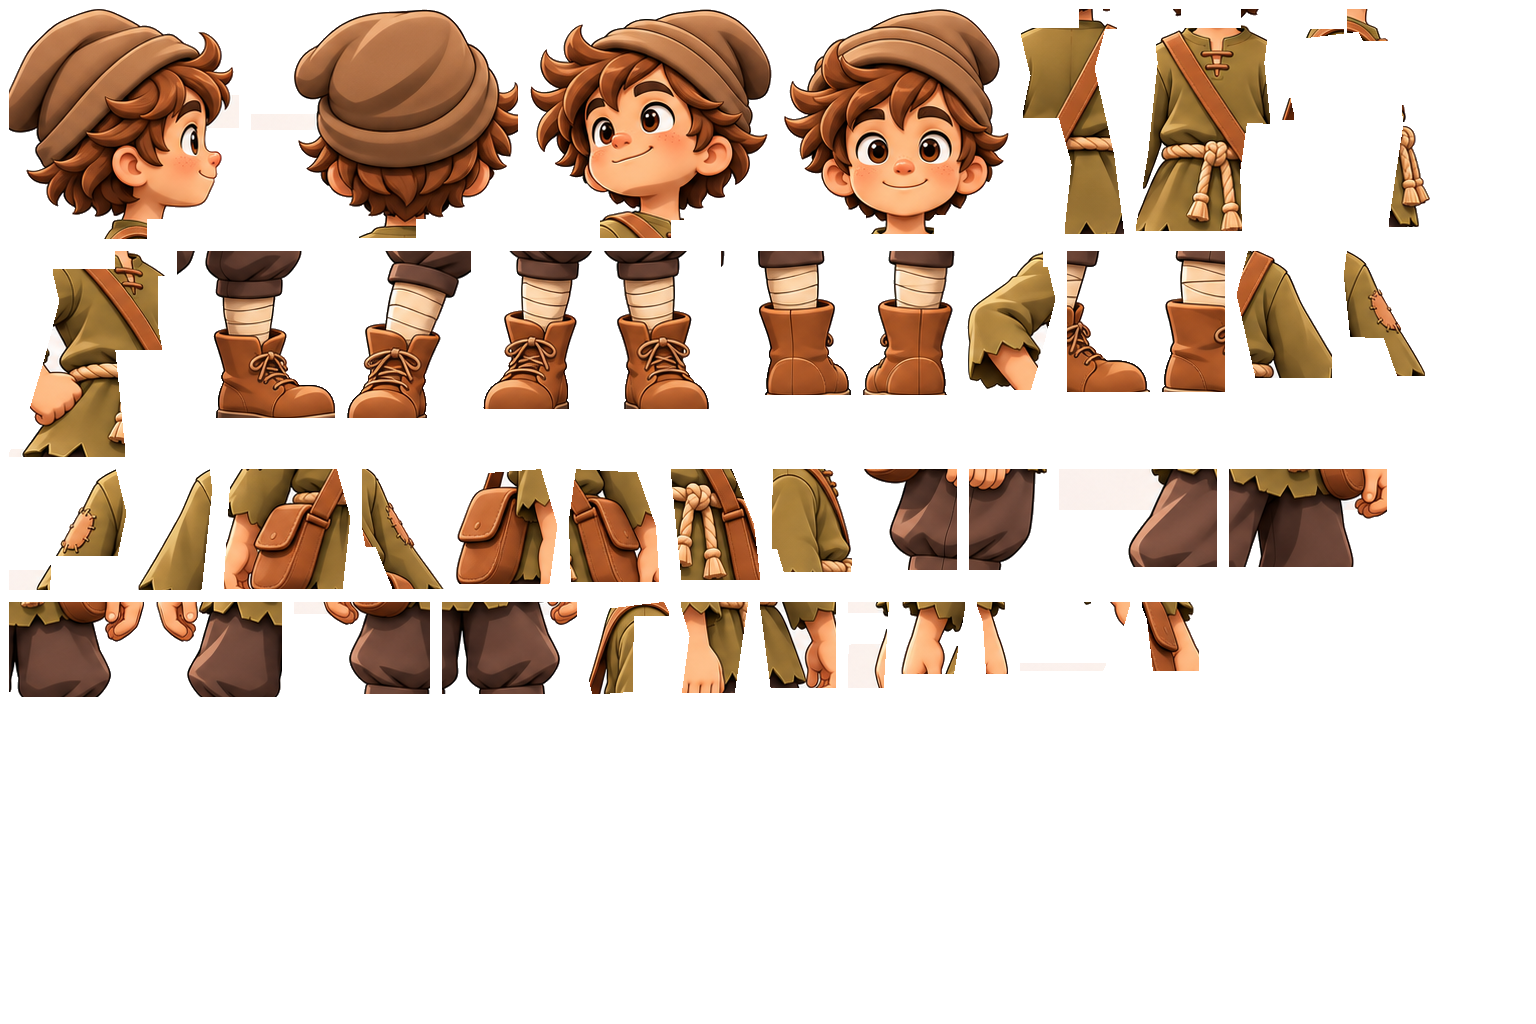
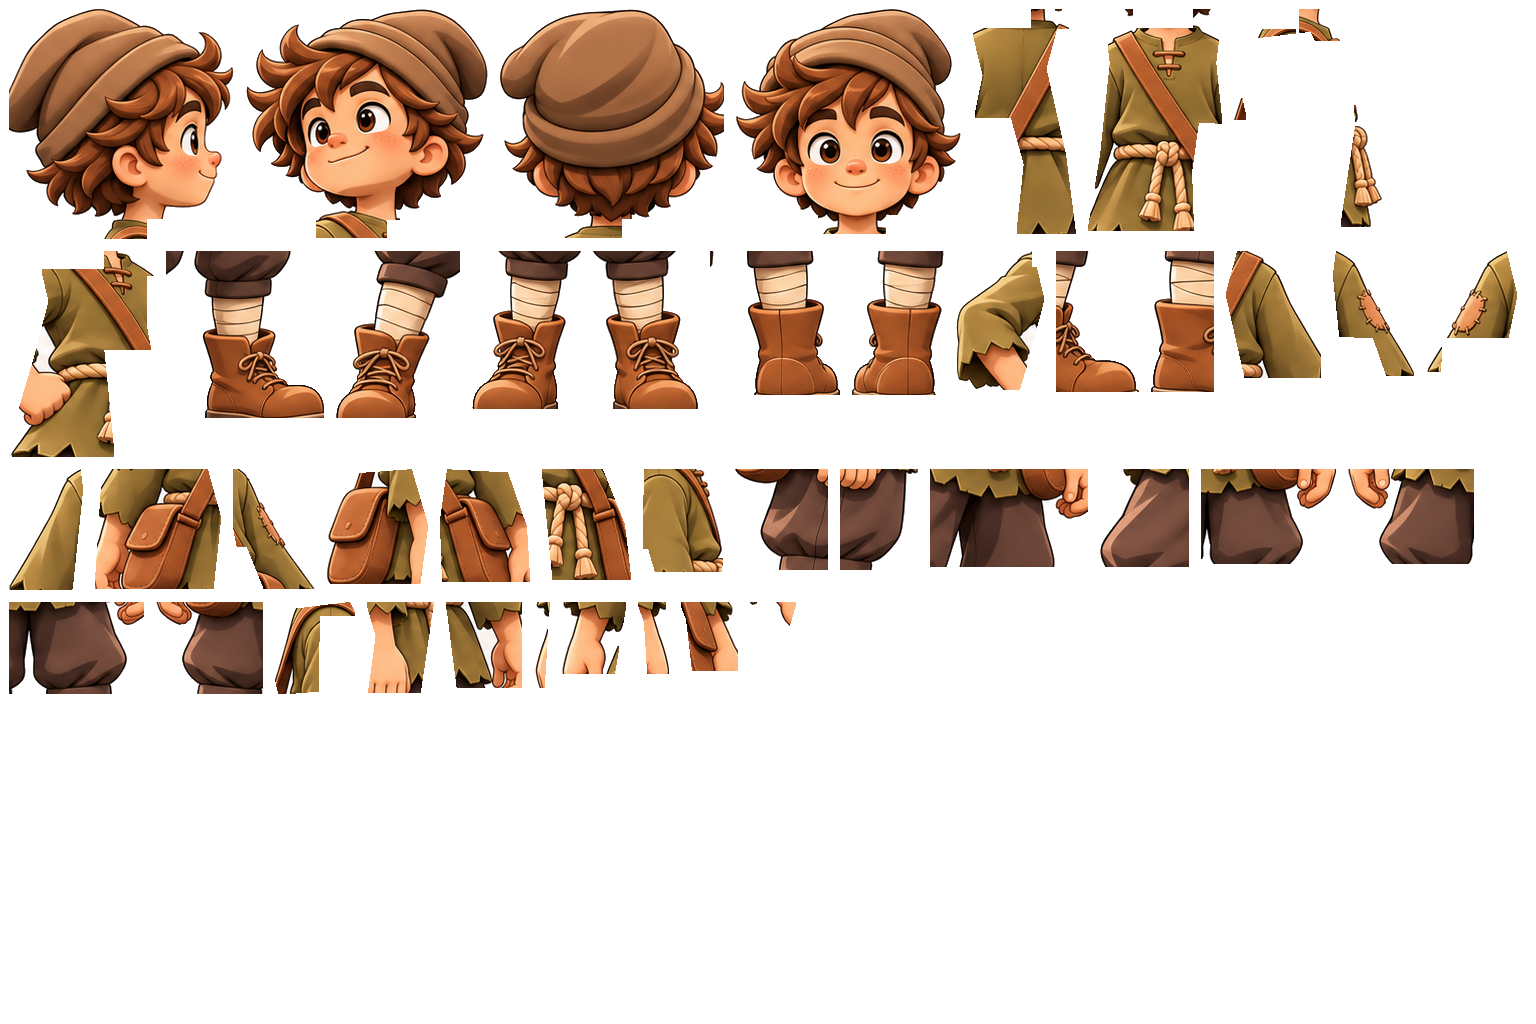
fix(diorama): remove background rectangles from vector art; keep elbow cuts seamless and refresh atlas

Changed region(s): [[0.0, 0.0, 1.0, 0.6875], [0.875, 0.125, 0.9375, 0.2188]]

diff --git a/diorama/index.html b/diorama/index.html
@@ -62,7 +62,7 @@ import {installExactUserSprites} from './diorama/exact-user-sprites.mjs?v=7';
 import {installCrayonTerrain} from './diorama/crayon-terrain.mjs?v=8';
 import {worldWalkDirection,faceWalkDirection} from './diorama/directional-facing.mjs?v=1';
 import {installStylizedCharacter} from './diorama/stylized-characters.mjs?v=3';
-import {installIllustratedCharacter} from './diorama/vector-character.mjs?v=6';
+import {installIllustratedCharacter} from './diorama/vector-character.mjs?v=7';
 const DIORAMA=true;
 // El manifiesto se consulta sin caché y solo recarga al quedar libre de una misión.
 const BUILD='0.61.0';

diff --git a/diorama/personaje-3d.html b/diorama/personaje-3d.html
@@ -31,7 +31,7 @@ button[aria-pressed=true]{background:#725136;border-color:#725136;color:#fff}
 <div id="error" role="alert"></div>
 <script type="module">
 import * as THREE from 'https://cdn.jsdelivr.net/npm/three@0.170.0/build/three.module.js';
-import {installIllustratedCharacter} from './vector-character.mjs?v=6';
+import {installIllustratedCharacter} from './vector-character.mjs?v=7';
 const host=document.getElementById('viewport');
 let renderer;
 try{renderer=new THREE.WebGLRenderer({antialias:true,powerPreference:'high-performance'});}
